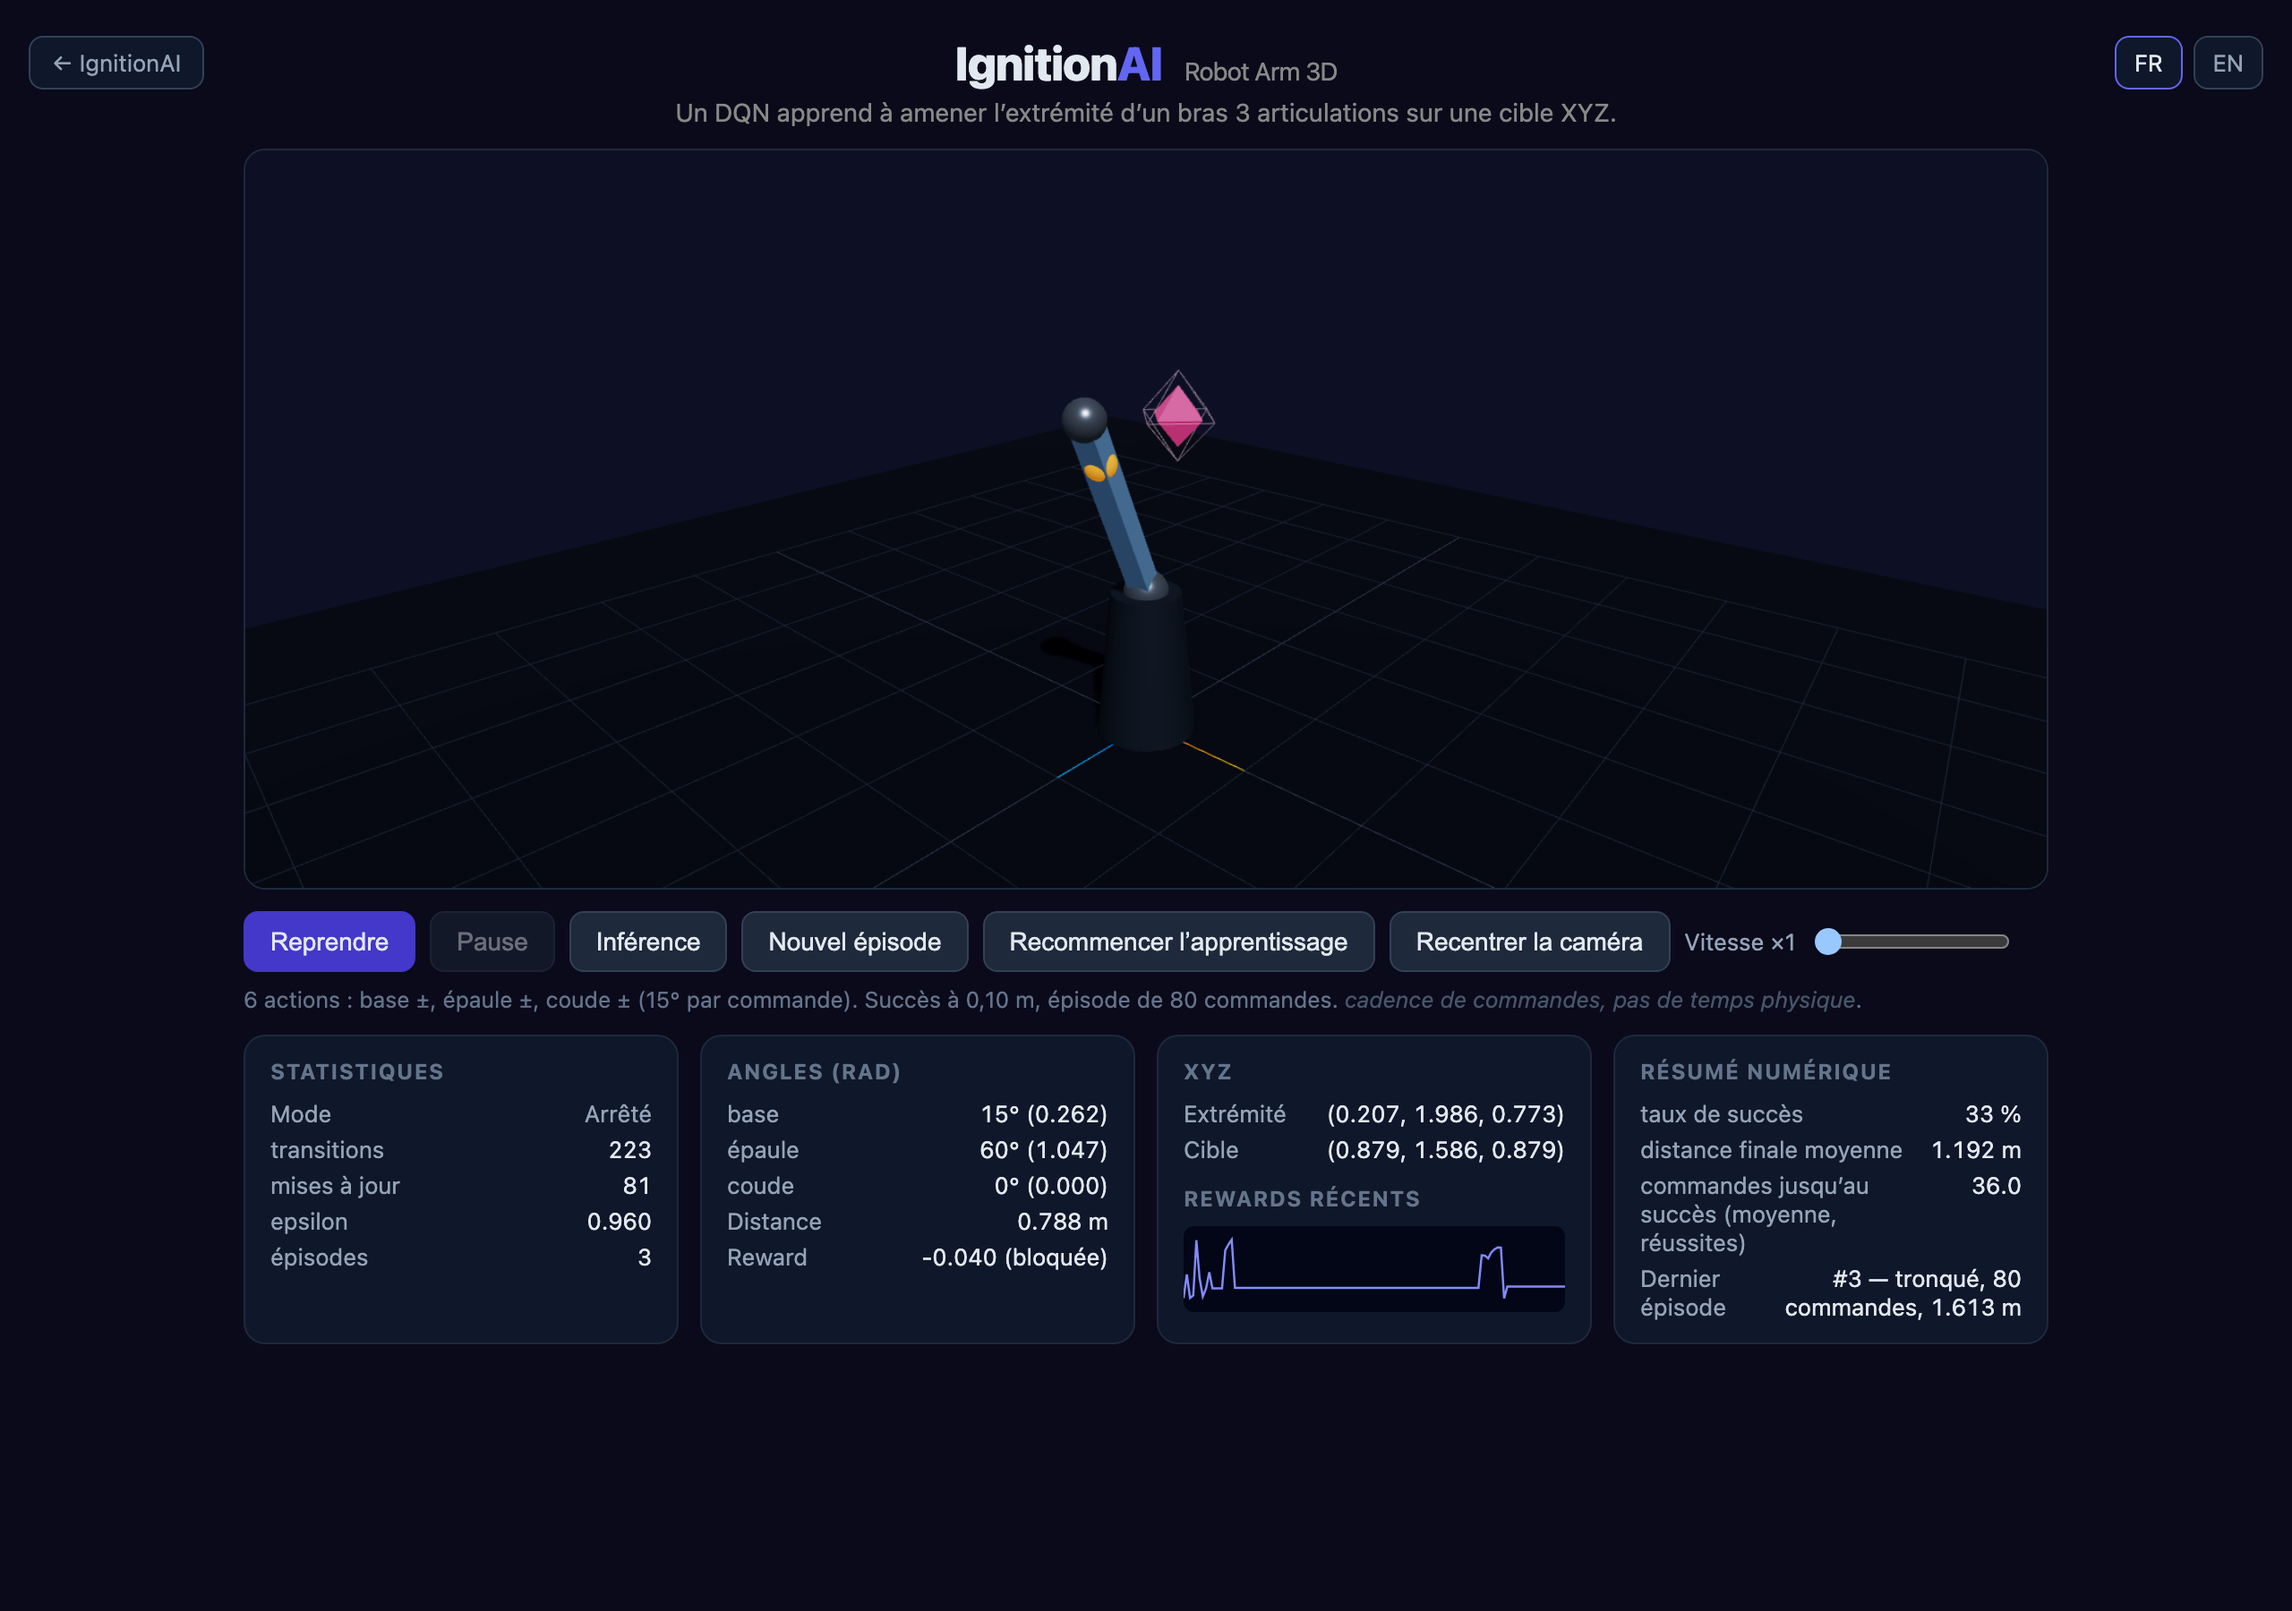
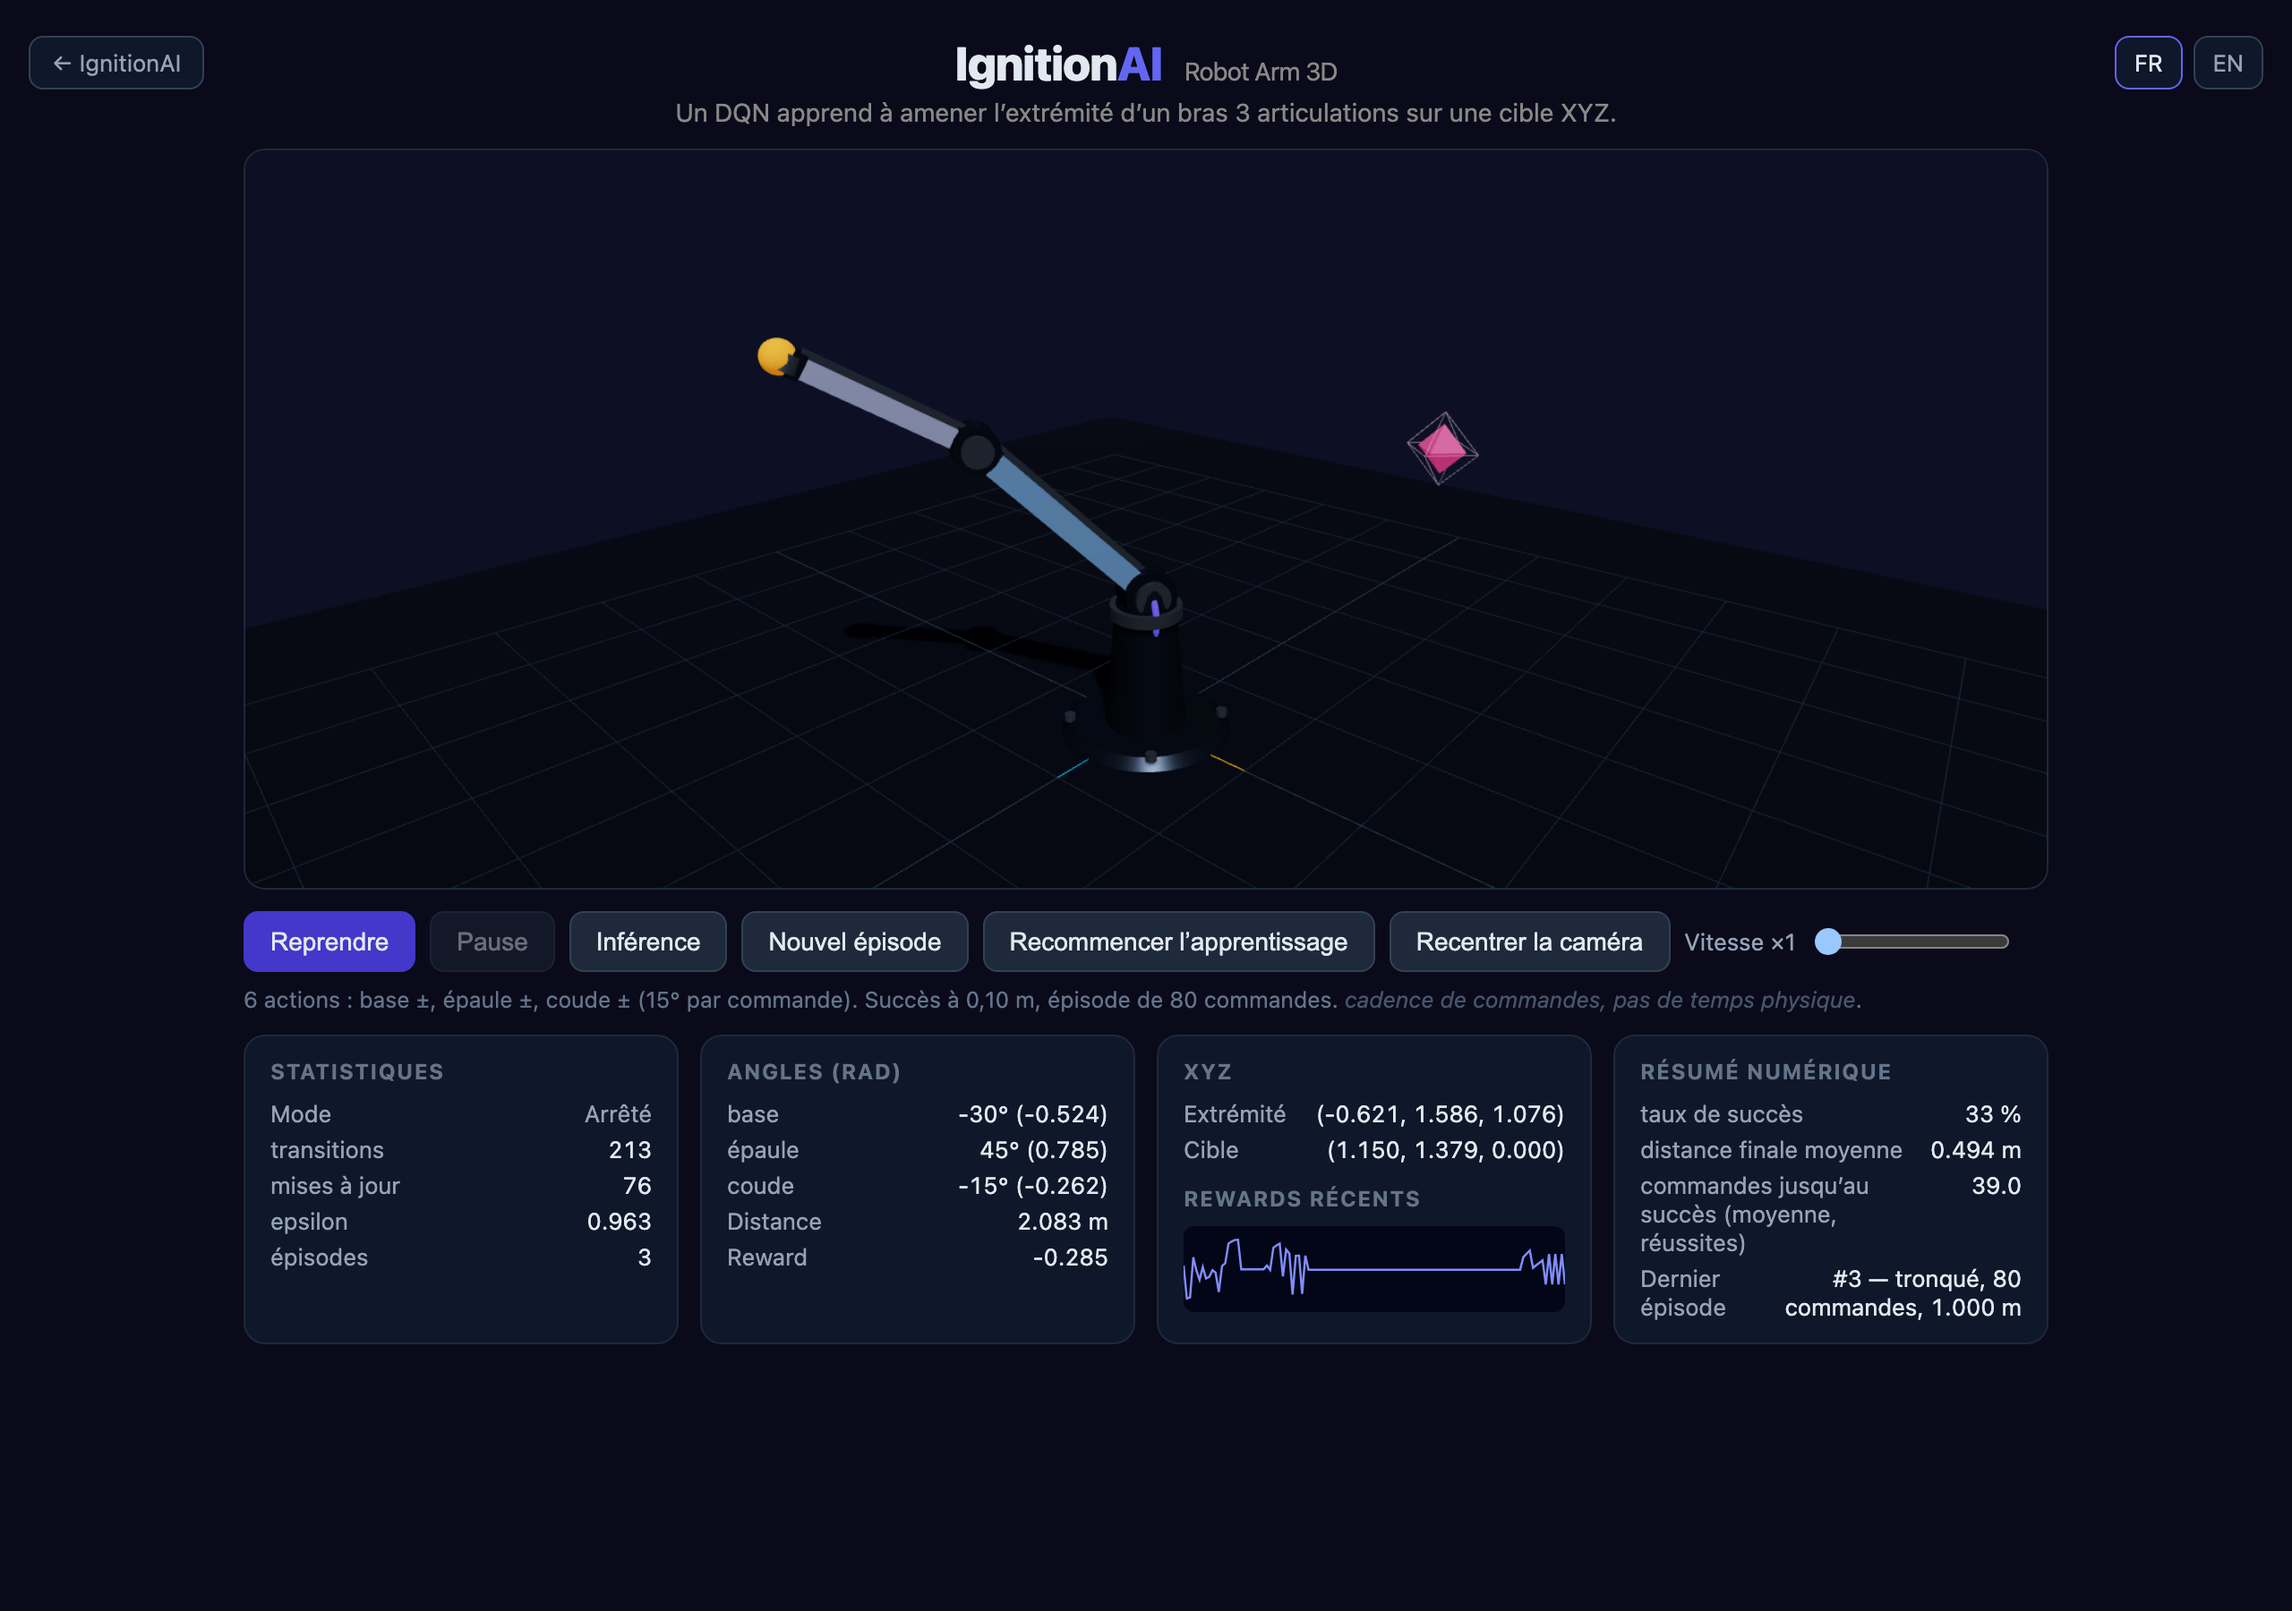
feat(demo-robot-arm): detailed mechanical arm model (base plate, servo joints, link spines)
- Scene3D: stepped pedestal + mounting plate + bolts, yaw hub with emissive
  ring, servo housings with end caps at shoulder/elbow, links with top spine
  and collars, wrist collar; primitives only, no external assets
- article captures refreshed on the new model (real runs, 0 console errors)

diff --git a/packages/demo-robot-arm/src/Scene3D.tsx b/packages/demo-robot-arm/src/Scene3D.tsx
@@ -5,6 +5,49 @@ import { L1, L2, PIVOT_Y, SUCCESS_DISTANCE } from './robot-arm-env';
 import { useDemoStore } from './store';
 import { makeT } from './i18n';
 
+const DARK_METAL = { color: '#3f4b5f', metalness: 0.75, roughness: 0.35 };
+const LIGHT_METAL = { color: '#8b98ac', metalness: 0.8, roughness: 0.3 };
+
+/** Servo-style joint: housing cylinder along the pitch axis (X) + end caps. */
+function ServoJoint({ radius = 0.105, length = 0.15 }: { radius?: number; length?: number }) {
+  return (
+    <group>
+      <mesh castShadow rotation={[0, 0, Math.PI / 2]}>
+        <cylinderGeometry args={[radius, radius, length, 24]} />
+        <meshStandardMaterial {...DARK_METAL} />
+      </mesh>
+      {[-1, 1].map((side) => (
+        <mesh key={side} castShadow position={[side * (length / 2 + 0.012), 0, 0]} rotation={[0, 0, Math.PI / 2]}>
+          <cylinderGeometry args={[radius * 0.68, radius * 0.68, 0.024, 20]} />
+          <meshStandardMaterial {...LIGHT_METAL} />
+        </mesh>
+      ))}
+    </group>
+  );
+}
+
+/** Rectangular link with a lighter top spine and end collars. */
+function Link({ length, width, color }: { length: number; width: number; color: string }) {
+  return (
+    <group>
+      <mesh position={[0, 0, length / 2]} castShadow>
+        <boxGeometry args={[width, width, length]} />
+        <meshStandardMaterial color={color} metalness={0.45} roughness={0.5} />
+      </mesh>
+      <mesh position={[0, width / 2 + 0.012, length / 2]} castShadow>
+        <boxGeometry args={[width * 0.4, 0.024, length * 0.84]} />
+        <meshStandardMaterial {...LIGHT_METAL} />
+      </mesh>
+      {[0.06, length - 0.06].map((z) => (
+        <mesh key={z} castShadow position={[0, 0, z]}>
+          <boxGeometry args={[width + 0.018, width + 0.018, 0.045]} />
+          <meshStandardMaterial {...DARK_METAL} />
+        </mesh>
+      ))}
+    </group>
+  );
+}
+
 function Arm() {
   const hud = useDemoStore((s) => s.hud);
   const reached = hud !== null && hud.distance <= (hud.successDistance ?? SUCCESS_DISTANCE);
@@ -17,33 +60,50 @@ function Arm() {
 
   return (
     <>
-      {/* Pedestal up to the pivot */}
-      <mesh position={[0, PIVOT_Y / 2, 0]} castShadow receiveShadow>
-        <cylinderGeometry args={[0.14, 0.2, PIVOT_Y, 24]} />
-        <meshStandardMaterial color="#475569" metalness={0.6} roughness={0.4} />
+      {/* Base: mounting plate, bolts, stepped pedestal, yaw hub and accent ring */}
+      <mesh position={[0, 0.02, 0]} castShadow receiveShadow>
+        <cylinderGeometry args={[0.3, 0.34, 0.04, 32]} />
+        <meshStandardMaterial {...DARK_METAL} />
+      </mesh>
+      {[[0.22, 0.22], [-0.22, 0.22], [0.22, -0.22], [-0.22, -0.22]].map(([x, z]) => (
+        <mesh key={`${x}:${z}`} castShadow position={[x, 0.05, z]}>
+          <cylinderGeometry args={[0.022, 0.022, 0.03, 12]} />
+          <meshStandardMaterial {...LIGHT_METAL} />
+        </mesh>
+      ))}
+      <mesh position={[0, PIVOT_Y / 2 - 0.02, 0]} castShadow receiveShadow>
+        <cylinderGeometry args={[0.12, 0.17, PIVOT_Y - 0.04, 24]} />
+        <meshStandardMaterial {...DARK_METAL} />
+      </mesh>
+      <mesh position={[0, PIVOT_Y - 0.075, 0]} castShadow>
+        <cylinderGeometry args={[0.145, 0.145, 0.05, 24]} />
+        <meshStandardMaterial {...LIGHT_METAL} />
       </mesh>
 
       {/* Arm: yaw (base) → pitch (shoulder) → relative pitch (elbow) */}
       <group position={[0, PIVOT_Y, 0]} rotation={[0, q0, 0]}>
-        <mesh castShadow>
-          <sphereGeometry args={[0.09, 24, 16]} />
-          <meshStandardMaterial color="#94a3b8" metalness={0.7} roughness={0.3} />
+        {/* yaw hub + emissive ring showing the base joint */}
+        <mesh castShadow position={[0, -0.02, 0]}>
+          <cylinderGeometry args={[0.1, 0.115, 0.12, 24]} />
+          <meshStandardMaterial {...DARK_METAL} />
         </mesh>
+        <mesh position={[0, -0.085, 0]}>
+          <torusGeometry args={[0.125, 0.014, 12, 32]} />
+          <meshStandardMaterial color="#6366f1" emissive="#4338ca" emissiveIntensity={0.6} />
+        </mesh>
+        <ServoJoint />
         <group rotation={[-q1, 0, 0]}>
-          <mesh position={[0, 0, L1 / 2]} castShadow>
-            <boxGeometry args={[0.09, 0.09, L1]} />
-            <meshStandardMaterial color="#93c5fd" metalness={0.4} roughness={0.5} />
-          </mesh>
-          <mesh position={[0, 0, L1]} castShadow>
-            <sphereGeometry args={[0.075, 24, 16]} />
-            <meshStandardMaterial color="#94a3b8" metalness={0.7} roughness={0.3} />
-          </mesh>
-          <group rotation={[-q2, 0, 0]}>
-            <mesh position={[0, 0, L2 / 2]} castShadow>
-              <boxGeometry args={[0.07, 0.07, L2]} />
-              <meshStandardMaterial color="#c7d2fe" metalness={0.4} roughness={0.5} />
+          <Link length={L1} width={0.09} color="#93c5fd" />
+          <group position={[0, 0, L1]}>
+            <ServoJoint radius={0.085} length={0.13} />
+          </group>
+          <group rotation={[-q2, 0, 0]} position={[0, 0, L1]}>
+            <Link length={L2} width={0.07} color="#c7d2fe" />
+            {/* wrist collar + tip: solid sphere, distinct from the octahedral target */}
+            <mesh castShadow position={[0, 0, L2 - 0.035]}>
+              <cylinderGeometry args={[0.05, 0.056, 0.06, 18]} />
+              <meshStandardMaterial {...LIGHT_METAL} />
             </mesh>
-            {/* Tip: solid sphere, distinct from the octahedral target */}
             <mesh position={[0, 0, L2]} castShadow>
               <sphereGeometry args={[0.06, 24, 16]} />
               <meshStandardMaterial
